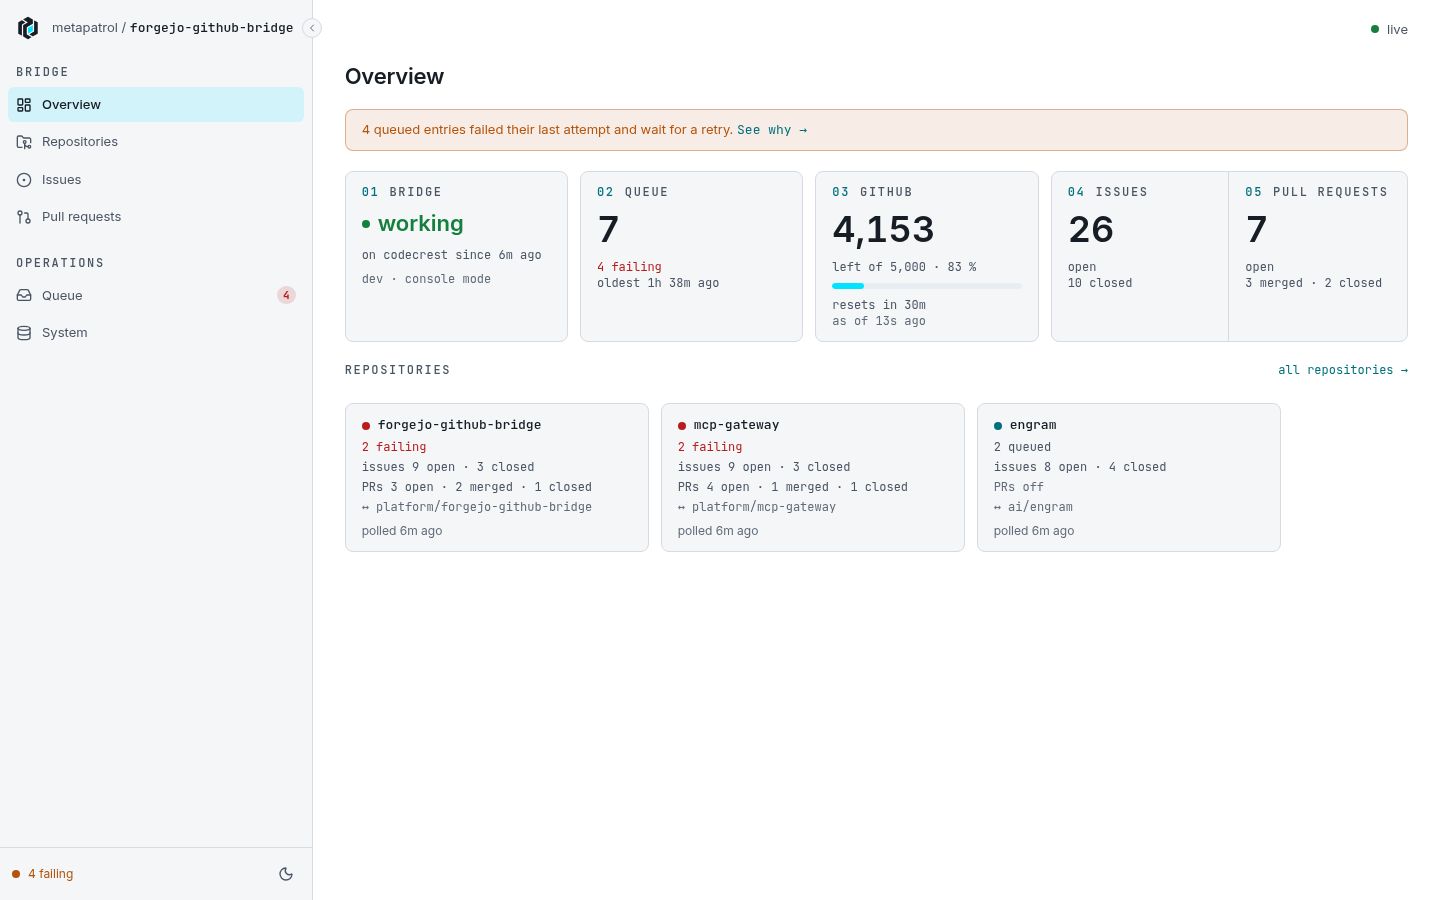
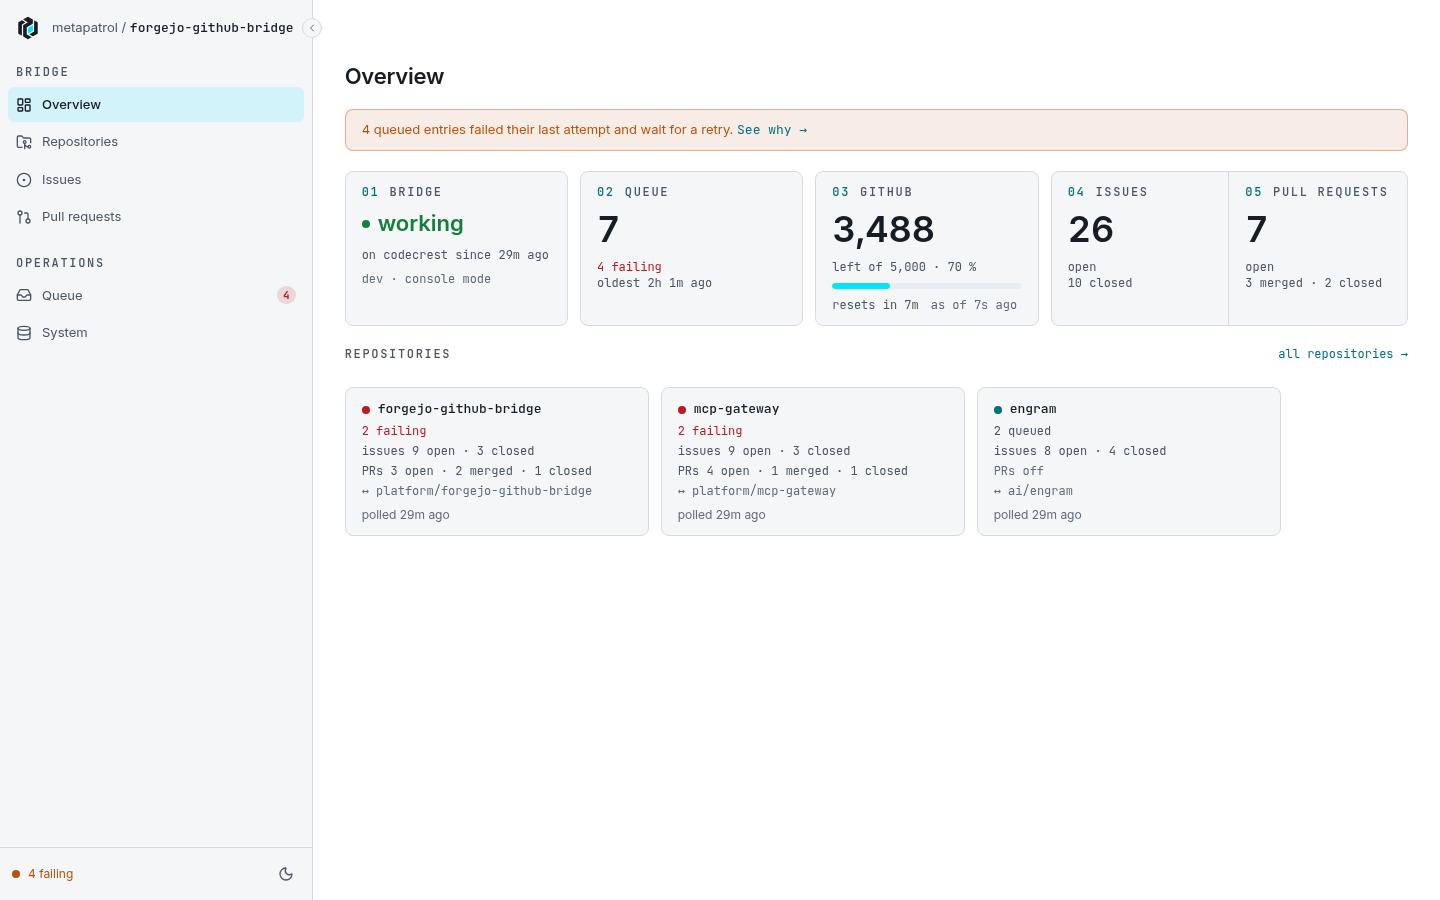
feat(ui): the stream's state in the sidebar status, not in a header of its own

diff --git a/ui/src/app/app.ts b/ui/src/app/app.ts
@@ -1,39 +1,16 @@
 import { ChangeDetectionStrategy, Component, computed, inject } from '@angular/core';
 import { RouterLink, RouterOutlet } from '@angular/router';
-import { MpAppShell, MpNavGroup, MpShellAccount, MpShellStatus } from '@metapatrol/ng';
-import { EventsService } from './core/events';
+import { MpAppShell, MpNavGroup, MpShellStatus } from '@metapatrol/ng';
 import { StatusService } from './core/status';
 
 @Component({
   selector: 'app-root',
-  imports: [RouterOutlet, RouterLink, MpAppShell, MpShellAccount, MpShellStatus],
+  imports: [RouterOutlet, RouterLink, MpAppShell, MpShellStatus],
   changeDetection: ChangeDetectionStrategy.OnPush,
   templateUrl: './app.html',
 })
 export class App {
   protected readonly status = inject(StatusService);
-  protected readonly events = inject(EventsService);
-
-  /** The stream in a word, with the dot that goes with it. Passive: there is nothing to switch. */
-  protected readonly live = computed(() => {
-    switch (this.events.state()) {
-      case 'live':
-        return { text: 'live', status: 'success', tip: 'Following changes as they happen.' };
-      case 'reconnecting':
-        return {
-          text: 'reconnecting…',
-          status: 'warning',
-          tip: 'The event stream dropped. What you see may not be current until it is back.',
-        };
-      default:
-        return { text: 'connecting…', status: 'idle', tip: 'Opening the event stream.' };
-    }
-  });
-
-  constructor() {
-    // The stream opens with the console, not with the first page that listens.
-    this.events.on(() => undefined);
-  }
 
   protected readonly groups = computed<MpNavGroup[]>(() => {
     const failing = this.status.status.body()?.queue.failing ?? 0;

diff --git a/ui/src/app/core/status.ts b/ui/src/app/core/status.ts
@@ -1,22 +1,35 @@
-import { computed, Injectable } from '@angular/core';
+import { computed, inject, Injectable } from '@angular/core';
 import { getStatus } from '../api/fn/status/get-status';
 import { apiResource } from './api';
-import { liveReload } from './events';
+import { EventsService, liveReload } from './events';
 import { coreLimit, percentLeft, rateTone } from './rate-limit';
 
-/** The bridge's status, shared by the sidebar and the overview, refreshed with the console. */
+/** The bridge's status, shared by the sidebar and the overview, reloaded as events arrive. */
 @Injectable({ providedIn: 'root' })
 export class StatusService {
   readonly status = apiResource(getStatus, () => ({}));
+  private readonly events = inject(EventsService);
 
   constructor() {
     liveReload(() => ({ view: 'status' }), this.status);
   }
 
-  /** The bridge's health in one word, for the sidebar. */
+  /**
+   * The bridge's health in one word, for the sidebar. What is worst wins:
+   * an API that does not answer, live updates that are interrupted (then
+   * nothing else shown can be trusted to be current), no leader, a GitHub
+   * rate limit nearly used up, failing entries.
+   */
   readonly health = computed(() => {
     if (this.status.error() && !this.status.body()) {
       return { text: 'unreachable', status: 'error', detail: 'the console API does not answer' };
+    }
+    if (this.events.state() === 'reconnecting') {
+      return {
+        text: 'reconnecting…',
+        status: 'warning',
+        detail: 'Live updates are interrupted; what is shown may not be current.',
+      };
     }
     const s = this.status.body();
     if (!s) {

diff --git a/ui/src/app/core/status.spec.ts b/ui/src/app/core/status.spec.ts
@@ -4,6 +4,7 @@ import { ApplicationRef } from '@angular/core';
 import { TestBed } from '@angular/core/testing';
 import { provideApiConfiguration } from '../api/api-configuration';
 import { Status } from '../api/models/status';
+import { EventsService } from './events';
 import { StatusService } from './status';
 
 const base: Status = {
@@ -68,6 +69,14 @@ describe('StatusService', () => {
     });
     expect(h.text).toBe('GitHub 2.4 % left');
     expect(h.status).toBe('warning');
+  });
+
+  it('puts interrupted live updates first', async () => {
+    TestBed.inject(EventsService).state.set('reconnecting');
+    const h = await answer({ ...base, leader: { present: false } });
+    expect(h.text).toBe('reconnecting…');
+    expect(h.status).toBe('warning');
+    expect(h.detail).toContain('may not be current');
   });
 
   it('counts what fails', async () => {

diff --git a/ui/src/app/app.html b/ui/src/app/app.html
@@ -1,21 +1,5 @@
 <mp-app-shell project="forgejo-github-bridge" home="/" [nav]="groups()">
-  <ng-template mpShellAccount>
-    <!-- read-only and event-driven: the account slot says whether the console is current -->
-    <span
-      class="mp-status text-sm"
-      [attr.data-status]="live().status"
-      [title]="live().tip"
-      role="status"
-      aria-live="polite"
-    >
-      <span class="text-fg-muted">{{ live().text }}</span>
-      @if (live().status === 'warning') {
-        <span class="hidden text-xs text-fg-subtle sm:inline">· may not be current</span>
-      }
-    </span>
-  </ng-template>
-
-  <!-- the bridge's health in one word; folded, only its dot -->
+  <!-- the bridge's health in one word, the live updates' included; folded, only its dot -->
   <ng-template mpShellStatus let-collapsed>
     <a
       routerLink="/"

diff --git a/docs/console.md b/docs/console.md
@@ -74,8 +74,8 @@ and the bridge's error messages, which name repositories and accounts.
 
 Every view follows changes as they happen: the bridge's database announces
 each one, and the console streams it to the browser, which reloads what it
-shows. The dot at the top says whether that stream is connected; while it
-reconnects, what is shown may not be current.
+shows. While the stream reconnects, the status at the bottom of the navigation says
+so: what is shown may not be current.
 A pair's title is the one GitHub shows, recorded when the bridge last
 reconciled it; a pair the bridge has not reconciled since an upgrade shows its
 numbers until it does.
